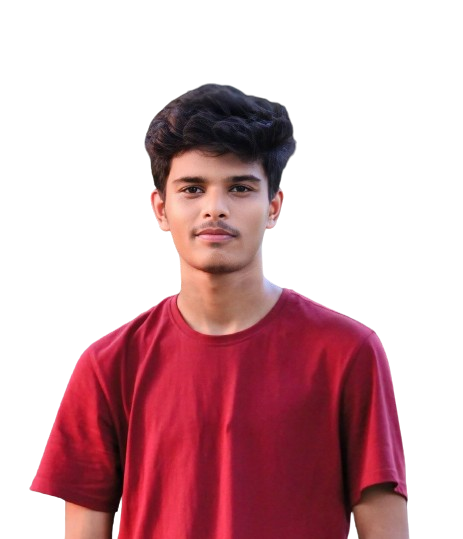
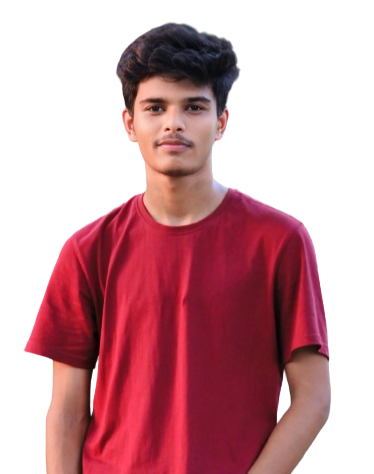
hero section and service section retouch

diff --git a/style.css b/style.css
@@ -133,8 +133,7 @@ header {
   background-color: #348f80;
 }
 .right-content img {
-  width: 500px;
-  margin-top: -38px;
+  width: 430px;
 }
 
 /* =====service section====== */
@@ -180,13 +179,7 @@ header {
   border-radius: 6px;
   transition: 400ms ease;
 }
-.service-card:hover {
-  background-color: var(--primary-color);
-  color: white;
-}
-.service-card p:hover {
-  color: white;
-}
+
 .service-card img {
   height: 40px;
   width: 40px;
@@ -221,14 +214,15 @@ header {
     margin: 0 10px;
   }
   .right-content img {
-    width: 420px;
-    margin-top: 38px;
+    width: auto;
   }
+
   #align-center {
     align-items: center;
     text-align: center;
   }
   .service-content {
     grid-template-columns: repeat(1, 260px);
+    margin-right: 15px;
   }
 }
